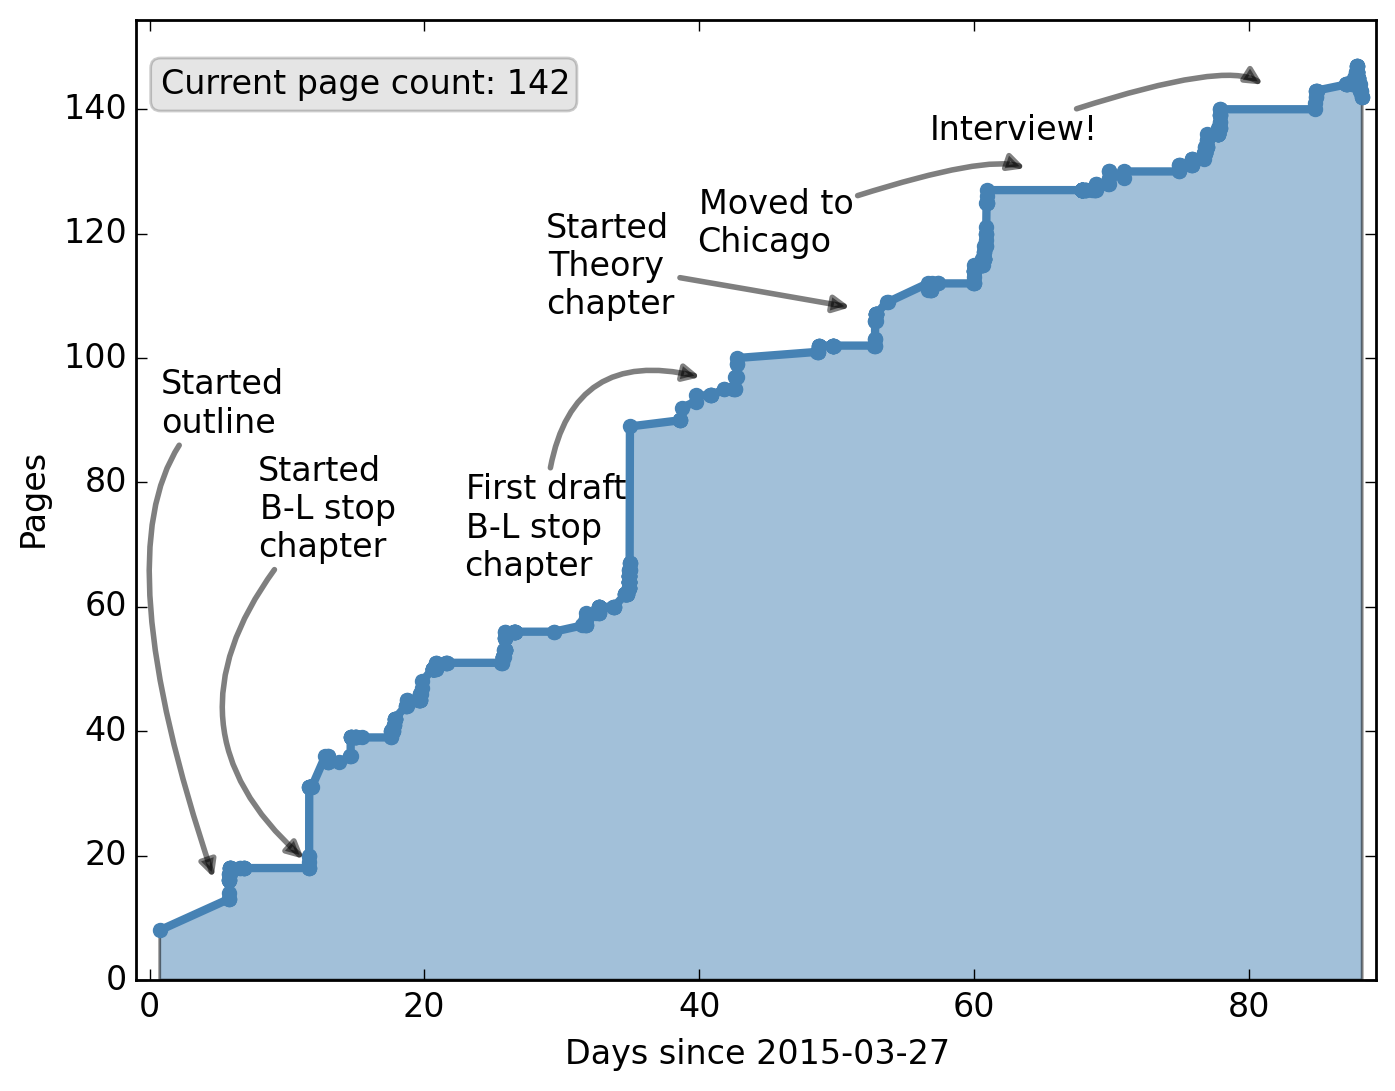
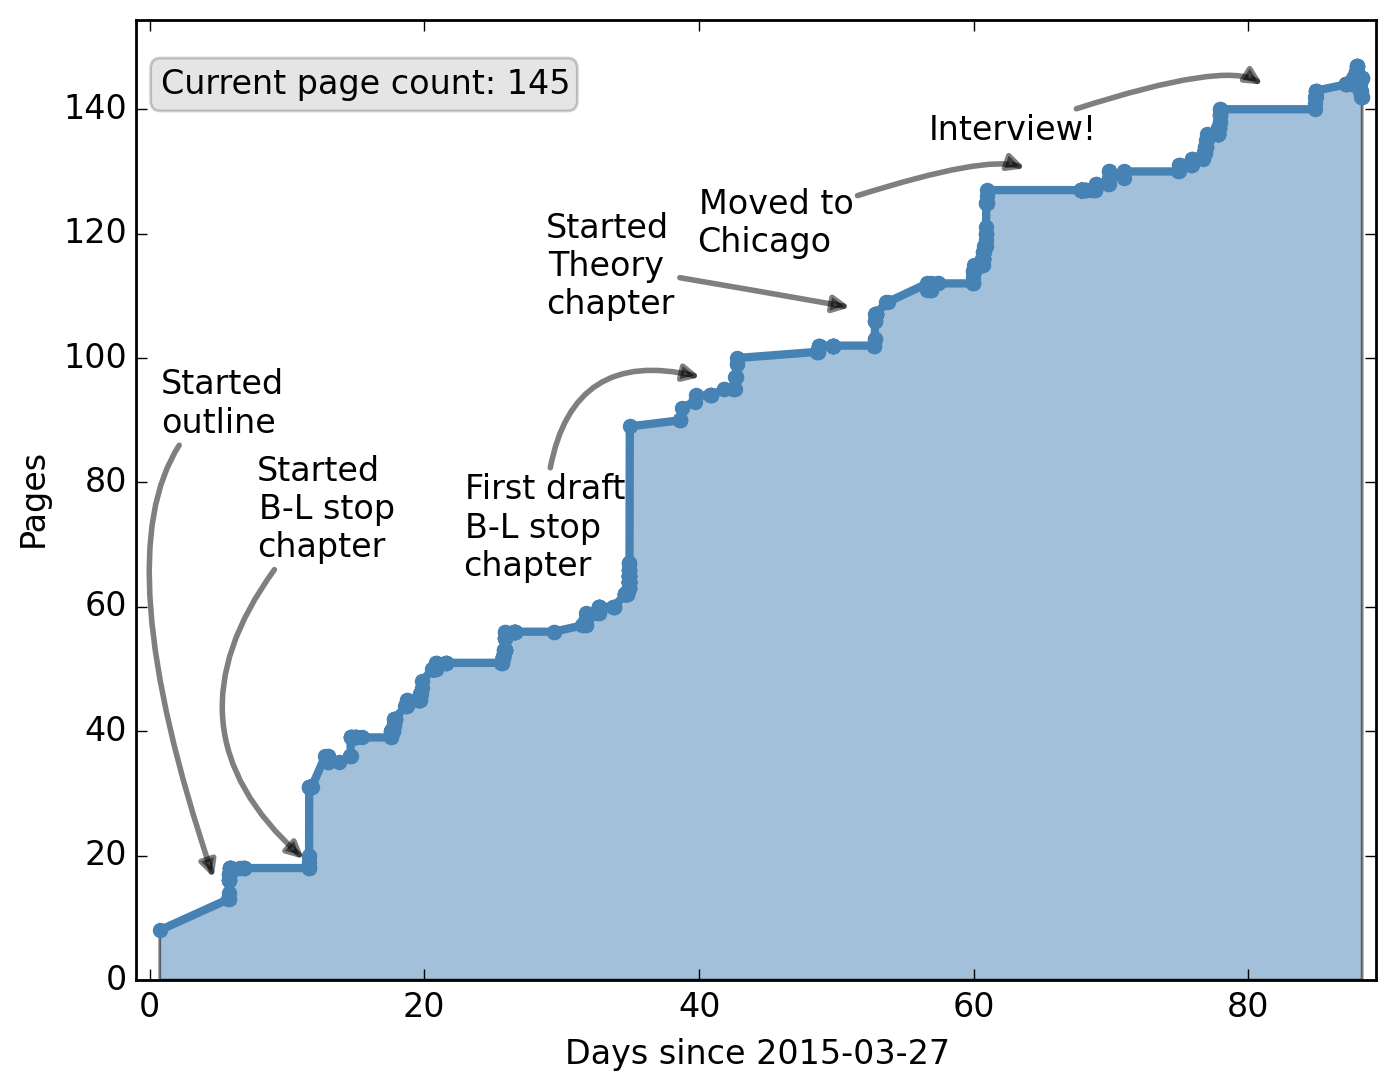
more edits!!!

diff --git a/tex/blstop.tex b/tex/blstop.tex
@@ -2248,15 +2248,16 @@ from in Table~\ref{tab:stop_xsec}.
 \chapter[Results][Results]{Results}
 \label{ch:results}
 
+The fitted background yields and the observed number of events in each
+signal region are shown in Tables~\ref{tab:event_yields_sr_400} and
+\ref{tab:event_yields_sr_600}.
 The background yields in the signal regions are determined using a maximum
 likelihood fit~\cite{Baak:2014wma} for the \TTBAR\ and
 \ZGAMMAJETS\ normalizations, which are constrained by the observed data in the
 Top and $Z$ CRs.
 The systematic uncertainties described in Section~\ref{sec:systematics} are
 included as Gaussian-distributed nuisance parameters.
-The fitted background yields and the observed number of events in each
-signal region are shown in Tables~\ref{tab:event_yields_sr_400} and
-\ref{tab:event_yields_sr_600}.
+
 Two events are observed, in agreement with the SM prediction.
 The kinematics of the two selected events are shown in
 Table~\ref{tab:sr_event_kinematics}, the $\MBL^0$ and \HT\ distributions in
@@ -2267,35 +2268,37 @@ Event displays of the two events are shown in Figure~\ref{fig:event_displays}.
   \caption{The expected and observed event yields in SR~400. The expected event
     yields are shown before and after performing the fit to the data in the
     control regions.
-    The last three rows show the model-independent 95\% CL on
-    the visible cross section and the number of events (expected and observed)
-    in SR~400 from a generic non-Standard Model process.
+    The last three rows show the model-independent 95\% CL on the visible
+    cross section and the upper limit on the number of events (expected
+    and observed) in SR~400 from a generic non-Standard Model process.
   }
   \label{tab:event_yields_sr_400}
   %
   \begin{center}
     \begin{tabular}{lrrrr}
       \toprule
-                                     & SR~400                & SR~400 $ee$           & SR~400 $\mu\mu$       & SR~400 $e\mu$  \\
+                                     & SR~400                & SR~400 $ee$           & SR~400 $\mu\mu$       & SR~400 $e\mu$      \\
       \midrule
       Observed                       & $2$                   & $0$                   & $2$                   & $0$                \\
       \midrule
       Fitted background              & $1.39 \pm 0.35$       & $0.36 \pm 0.15$       & $0.57 \pm 0.20$       & $0.45 \pm 0.11$    \\
       \midrule
-      Fitted \TTBAR                  & $0.33 \pm 0.09$       & $0.07 \pm 0.08$       & $0.07 \pm 0.02$       & $0.19 \pm 0.05$    \\
-      Fitted \ZGAMMAJETS             & $0.54 \pm 0.28$       & $0.20 \pm 0.10$       & $0.35 \pm 0.18$       & $\leq 0.01$    \\
-      Single Top                     & $0.44 \pm 0.08$       & $0.10 \pm 0.03$       & $0.11 \pm 0.03$       & $0.23 \pm 0.05$    \\
+      Fitted \TTBAR                  & $0.33 \pm 0.09$       & $0.07 \pm 0.08$       & $0.07 \pm 0.02$       & $0.19 \pm 0.05$    \\[1ex]
+      Fitted \ZGAMMAJETS             & $0.54 \pm 0.28$       & $0.20 \pm 0.10$       & $0.35 \pm 0.18$       & $\leq 0.01$        \\[1ex]
+      Single Top                     & $0.44 \pm 0.08$       & $0.10 \pm 0.03$       & $0.11 \pm 0.03$       & $0.23 \pm 0.05$    \\[1ex]
       Other                          & $0.07 \pm 0.04$       & $\leq 0.01$           & $0.04 \pm 0.02$       & $0.03 \pm 0.03$    \\
       \midrule
       Input SM                       & $1.2$                 & $0.30$                & $0.46$                & $0.43$             \\
       \midrule
-      Input \TTBAR                   & $0.30$                & $0.06$                & $0.06$                & $0.17$             \\
-      Input \ZGAMMAJETS              & $0.38$                & $0.14$                & $0.24$                & $0.00$             \\
-      Input single Top               & $0.44$                & $0.10$                & $0.11$                & $0.23$             \\
+      Input \TTBAR                   & $0.30$                & $0.06$                & $0.06$                & $0.17$             \\[1ex]
+      Input \ZGAMMAJETS              & $0.38$                & $0.14$                & $0.24$                & $0.00$             \\[1ex]
+      Input single Top               & $0.44$                & $0.10$                & $0.11$                & $0.23$             \\[1ex]
       Input other                    & $0.07$                & $0.00$                & $0.04$                & $0.03$             \\
       \midrule
-      $\sigma_\mathrm{vis}$~[fb]     & $0.23$                & $0.11$                & $0.26$                & $0.11$                \\
-      Observed $N_\mathrm{non-SM}$   & $4.8$                 & $2.2$                 & $5.4$                 & $2.3$                 \\
+      Upper limits \\
+      \midrule
+      $\sigma_\mathrm{vis}$~[fb]     & $0.23$                & $0.11$                & $0.26$                & $0.11$                \\[1ex]
+      Observed $N_\mathrm{non-SM}$   & $4.8$                 & $2.2$                 & $5.4$                 & $2.3$                 \\[1ex]
       Expected $N_\mathrm{non-SM}$   & ${4.0}^{+2.2}_{-1.1}$ & ${3.2}^{+1.7}_{-1.1}$ & ${3.6}^{+1.9}_{-1.5}$ & ${3.3}^{+1.8}_{-1.3}$ \\
       \bottomrule
     \end{tabular}
@@ -2305,35 +2308,38 @@ Event displays of the two events are shown in Figure~\ref{fig:event_displays}.
 \begin{table}
   \caption{The expected and observed event yields in SR~600. The expected event
     yields are shown before and after performing the fit to the data in the
-    control regions.  The last three rows show the model-independent 95\% CL on
-    the visible cross section and the number of events (expected and observed)
-    in SR~600 from a generic non-Standard Model process.
+    control regions.
+    The last three rows show the model-independent 95\% CL on the visible
+    cross section and the upper limit on the number of events (expected and
+    observed) in SR~600 from a generic non-Standard Model process.
   }
   \label{tab:event_yields_sr_600}
   %
   \begin{center}
     \begin{tabular}{lrrrr}
       \toprule
-                                      & SR~600                & SR~600 $ee$           & SR~600 $\mu\mu$       & SR~600 $e\mu$   \\
+                                      & SR~600                & SR~600 $ee$           & SR~600 $\mu\mu$       & SR~600 $e\mu$    \\
       \midrule
       Observed                        & $1$                   & $0$                   & $1$                   & $0$              \\
       \midrule
       Fitted background               & $0.55 \pm 0.15$       & $0.15 \pm 0.06$       & $0.24 \pm 0.10$       & $0.16 \pm 0.06$  \\
       \midrule
-      Fitted \TTBAR                   & $0.10 \pm 0.02$       & $0.03 \pm 0.01$       & $\leq 0.01$           & $0.07 \pm 0.03$  \\
-      Fitted \ZGAMMAJETS              & $0.23 \pm 0.12$       & $0.08 \pm 0.05$       & $0.15 \pm 0.08$       & $\leq 0.01$  \\
-      Single Top                      & $0.18 \pm 0.04$       & $0.03 \pm 0.01$       & $0.05 \pm 0.02$       & $0.09 \pm 0.03$  \\
-      Other                           & $0.04 \pm 0.01$       & $\leq 0.01$           & $0.04 \pm 0.02$       & $\leq 0.01$  \\
+      Fitted \TTBAR                   & $0.10 \pm 0.02$       & $0.03 \pm 0.01$       & $\leq 0.01$           & $0.07 \pm 0.03$  \\[1ex]
+      Fitted \ZGAMMAJETS              & $0.23 \pm 0.12$       & $0.08 \pm 0.05$       & $0.15 \pm 0.08$       & $\leq 0.01$      \\[1ex]
+      Single Top                      & $0.18 \pm 0.04$       & $0.03 \pm 0.01$       & $0.05 \pm 0.02$       & $0.09 \pm 0.03$  \\[1ex]
+      Other                           & $0.04 \pm 0.01$       & $\leq 0.01$           & $0.04 \pm 0.02$       & $\leq 0.01$      \\
       \midrule
       Input SM                        & $0.47$                & $0.12$                & $0.20$                & $0.16$           \\
       \midrule
-      Input \TTBAR                    & $0.09$                & $0.03$                & $0.00$                & $0.06$           \\
-      Input \ZGAMMAJETS               & $0.16$                & $0.06$                & $0.10$                & $0.00$           \\
-      Input single Top                & $0.18$                & $0.03$                & $0.05$                & $0.09$           \\
+      Input \TTBAR                    & $0.09$                & $0.03$                & $0.00$                & $0.06$           \\[1ex]
+      Input \ZGAMMAJETS               & $0.16$                & $0.06$                & $0.10$                & $0.00$           \\[1ex]
+      Input single Top                & $0.18$                & $0.03$                & $0.05$                & $0.09$           \\[1ex]
       Input other                     & $0.04$                & $0.00$                & $0.04$                & $0.00$           \\
       \midrule
-      $\sigma_\mathrm{vis}$~[fb]      & $0.19$                & $0.10$                & $0.20$                & $0.10$                \\
-      Observed $N_\mathrm{non-SM}$    & $3.9$                 & $2.1$                 & $4.0$                 & $2.1$                 \\
+      Upper limits \\
+      \midrule
+      $\sigma_\mathrm{vis}$~[fb]      & $0.19$                & $0.10$                & $0.20$                & $0.10$                \\[1ex]
+      Observed $N_\mathrm{non-SM}$    & $3.9$                 & $2.1$                 & $4.0$                 & $2.1$                 \\[1ex]
       Expected $N_\mathrm{non-SM}$    & ${3.5}^{+1.9}_{-1.4}$ & ${2.6}^{+1.6}_{-0.6}$ & ${3.0}^{+1.7}_{-1.0}$ & ${2.7}^{+1.6}_{-0.7}$ \\
       \bottomrule
     \end{tabular}
@@ -2348,7 +2354,7 @@ Event displays of the two events are shown in Figure~\ref{fig:event_displays}.
   \label{tab:sr_event_kinematics}
   %
   \begin{center}
-    \begin{tabular}{lcc}
+    \begin{tabular}{l|c|c}
       \toprule
       Run number              & 214216    & 210302  \\
       Event number            & 121272046 & 2292645861 \\
@@ -2463,8 +2469,8 @@ limits are set on the allowable stop masses and branching fractions for this mod
 Expected and observed exclusion limits on the signal model are determined using
 the $CL_S$ prescription based on a simultaneous fit of the SRs and
 CRs~\cite{Baak:2014wma}.
-The predicted signal contamination in the CRs is taken into account for each
-signal model tested.
+The predicted small signal contamination in the CRs is taken into account for
+each signal model tested.
 An expected and observed mass limit is first determined for a single choice of
 stop branching fraction, $Br(\tilde{t} \to eb) = Br(\tilde{t} \to \mu b) = 0.5$,
 the nominal branching fraction simulated in the MC signal models.
@@ -2485,7 +2491,7 @@ The \texttt{HistFitter} package limits the precision of the $CL_S$ value
 to $10^{-6}$; if the two SRs are affected by this cutoff, SR~400 is chosen by
 convention.
 This simplification is not expected to affect the final result, as these points
-are far from the mass limit boundary.
+are far from the limit, where the expected $CL_S$ is 0.05.
 If the observed $CL_S$ value in the selected SR is less than 0.05, the signal
 model is rejected at 95\%~CL.
 An observed (expected) limit on the stop mass is determined by taking the
@@ -2512,15 +2518,16 @@ this choice of stop branching fractions is 900~\GeV.
 \end{figure}
 
 This procedure of finding a stop mass limit is repeated for branching fractions
-across the plan of allowed values.
+across the plane of allowed values.
 The MC simulation stop samples are generated with fixed branching
-fractions, however, an additional event weight is constructed to scale the signal
-process to any desired choice of stop branching fraction.
-This event weight depends on the di-lepton flavor channel of each MC simulated
+fractions of $Br(\stop \to be) = Br(\stop \to b\mu) = 0.5$, however, an
+additional event weight is constructed to scale the simulated signal
+process to the desired choice of stop branching fraction.
+This event weight depends on the lepton flavor channel of each MC simulated
 event.
-It was shown that the disagreement between the generated and reconstructed
-flavor channels is negligible, so the reconstructed di-lepton flavor channel
-is used to select the additional weight.
+% It was shown that the disagreement between the generated and reconstructed
+% flavor channels is negligible, so the reconstructed di-lepton flavor channel
+% is used to select the additional weight.
 
 For a choice of stop branching fraction, the di-stop branching fractions are
 given by 

diff --git a/PageNumbers.md b/PageNumbers.md
@@ -563,3 +563,6 @@ Tue Jun 23 00:17:06 CDT 2015 , 143
 Tue Jun 23 00:49:38 CDT 2015 , 142
 Tue Jun 23 01:10:51 CDT 2015 , 142
 Tue Jun 23 01:30:52 CDT 2015 , 142
+Tue Jun 23 01:49:41 CDT 2015 , 145
+Tue Jun 23 01:50:32 CDT 2015 , 145
+Tue Jun 23 02:05:14 CDT 2015 , 145
